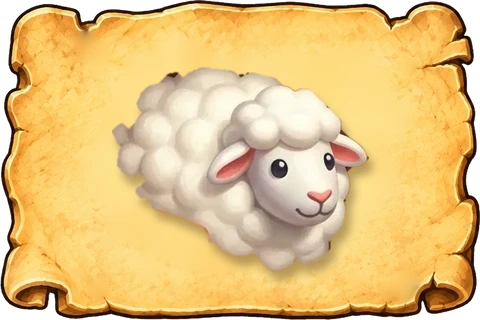
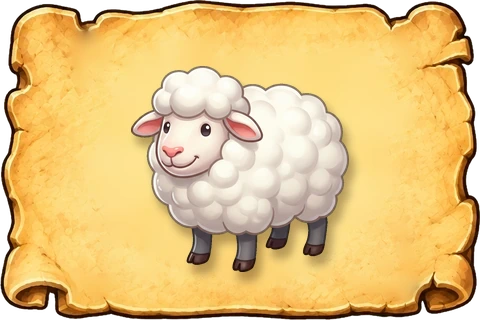
Thay ảnh tài nguyên (gạch, cừu, lúa, đá) bằng ảnh Gemini mới; token điểm huy chương vàng có số ở giữa ngôi sao
Claude-Session: https://claude.ai/code/session_01C6iMuiryePgrs9m7ahj8VB

Changed region(s): [[0.2188, 0.1875, 0.7812, 0.9062]]

diff --git a/games/dao-khai-hoang/art.js b/games/dao-khai-hoang/art.js
@@ -95,19 +95,19 @@ const KHART=(()=>{
     [[ax,ay],[bx,by]].forEach(([x,y])=>{ const L=Math.hypot(px-x,py-y), ux=(px-x)/L, uy=(py-y)/L; const nx=-uy*3.2, ny=ux*3.2;
       o+=`<polygon points="${f(x+nx)},${f(y+ny)} ${f(px+nx*.6)},${f(py+ny*.6)} ${f(px-nx*.6)},${f(py-ny*.6)} ${f(x-nx)},${f(y-ny)}" fill="#d9b27a" stroke="#8a5a2c" stroke-width="1.4"/>`;
       for(let k=1;k<6;k++){ const q=k/6; o+=`<line x1="${f(x+(px-x)*q+nx)}" y1="${f(y+(py-y)*q+ny)}" x2="${f(x+(px-x)*q-nx)}" y2="${f(y+(py-y)*q-ny)}" stroke="#8a5a2c" stroke-width="1"/>`; } });
-    o+=`<g transform="translate(${f(px)},${f(py)}) scale(1.25)"><path d="M-25 10 q6 -4 12 0 t12 0 t12 0 t12 0 t12 0" stroke="#fff" stroke-width="2.4" fill="none" opacity=".9"/><path d="M-20 14 q5 -3 10 0 t10 0 t10 0 t10 0" stroke="#bff3fb" stroke-width="1.6" fill="none" opacity=".8"/><g class="boat"><image href="assets/boat.webp?v=20261128zu" x="-20" y="-36.8" width="40" height="47.7" preserveAspectRatio="none"/></g></g>`;
+    o+=`<g transform="translate(${f(px)},${f(py)}) scale(1.25)"><path d="M-25 10 q6 -4 12 0 t12 0 t12 0 t12 0 t12 0" stroke="#fff" stroke-width="2.4" fill="none" opacity=".9"/><path d="M-20 14 q5 -3 10 0 t10 0 t10 0 t10 0" stroke="#bff3fb" stroke-width="1.6" fill="none" opacity=".8"/><g class="boat"><image href="assets/boat.webp?v=20261128zv" x="-20" y="-36.8" width="40" height="47.7" preserveAspectRatio="none"/></g></g>`;
     const bx2=px+Math.cos(ang)*42, by2=py+Math.sin(ang)*42;
     o+=`<g transform="translate(${f(bx2)},${f(by2)})"><circle r="15.5" fill="#f7ebcd" stroke="#9a6b36" stroke-width="2.4"/><circle r="12.5" fill="none" stroke="#c9a26a" stroke-width=".9"/>${t>=0?resMini(t,0,-4,.75):''}<text y="${t>=0?9:5}" class="pt">${t<0?'3:1':'2:1'}</text></g>`;
     return o; }
   // ---------- quân cờ ----------
   function shade(c,v){ return v>0?mix(c,'#ffffff',v):mix(c,'#000000',-v); }
   const HSPR={'#e11d48':'red','#2563eb':'blue','#16a34a':'green','#f8fafc':'white'};
-  function house(x,y,c,city,z){ z=z||1.28; const n=HSPR[c]||'red', u=`assets/house-${n}.webp?v=20261128zu`;
-    if(city){ const cu=`assets/city-${n}.webp?v=20261128zu`; return `<g transform="translate(${f(x)},${f(y)}) scale(${z})"><ellipse cx="0" cy="12" rx="19" ry="5.5" fill="#6b4423" opacity=".38"/><image href="${cu}" x="-19" y="-24" width="38" height="38" preserveAspectRatio="none"/></g>`; }
+  function house(x,y,c,city,z){ z=z||1.28; const n=HSPR[c]||'red', u=`assets/house-${n}.webp?v=20261128zv`;
+    if(city){ const cu=`assets/city-${n}.webp?v=20261128zv`; return `<g transform="translate(${f(x)},${f(y)}) scale(${z})"><ellipse cx="0" cy="12" rx="19" ry="5.5" fill="#6b4423" opacity=".38"/><image href="${cu}" x="-19" y="-24" width="38" height="38" preserveAspectRatio="none"/></g>`; }
     return `<g transform="translate(${f(x)},${f(y)}) scale(${z})"><ellipse cx="0" cy="10" rx="12" ry="3.6" fill="#6b4423" opacity=".35"/><image href="${u}" x="-12" y="-15.4" width="24" height="25.4" preserveAspectRatio="none"/></g>`; }
   function road(ax,ay,bx,by,c){ const n=HSPR[c]||'red', mx=(ax+bx)/2, my=(ay+by)/2; let ang=Math.atan2(by-ay,bx-ax)*180/Math.PI; if(ang>90) ang-=180; if(ang<-90) ang+=180;
     const L=Math.hypot(bx-ax,by-ay), w=Math.min(L-18,40), h=w*170/360;
-    return `<g transform="translate(${f(mx)},${f(my)}) rotate(${f(ang)})"><rect x="${f(-w/2+3)}" y="${f(-h/2+4)}" width="${f(w-6)}" height="${f(h-4)}" rx="4" fill="#6b4423" opacity=".35"/><image href="assets/road-${n}.webp?v=20261128zu" x="${f(-w/2)}" y="${f(-h/2-1)}" width="${f(w)}" height="${f(h)}" preserveAspectRatio="none"/></g>`; }
+    return `<g transform="translate(${f(mx)},${f(my)}) rotate(${f(ang)})"><rect x="${f(-w/2+3)}" y="${f(-h/2+4)}" width="${f(w-6)}" height="${f(h-4)}" rx="4" fill="#6b4423" opacity=".35"/><image href="assets/road-${n}.webp?v=20261128zv" x="${f(-w/2)}" y="${f(-h/2-1)}" width="${f(w)}" height="${f(h)}" preserveAspectRatio="none"/></g>`; }
   function robber(x,y){ return `<g transform="translate(${f(x)},${f(y)})" class="robber"><ellipse cx="2" cy="15" rx="11" ry="4" fill="#000" opacity=".45"/><path d="M-9,14 Q-11,6 -5,0 Q-8,-4 -6,-8 A7,7 0 1 1 6,-8 Q8,-4 5,0 Q11,6 9,14Z" fill="url(#khRob)" stroke="#000" stroke-width="1.2"/><ellipse cx="-3" cy="-10" rx="2.6" ry="3.6" fill="#fff" opacity=".35"/><ellipse cx="-5" cy="6" rx="2" ry="5" fill="#fff" opacity=".18"/><rect x="-9" y="12" width="18" height="3" rx="1.5" fill="#111"/></g>`; }
   function token(x,y,n){ const hot=n===6||n===8, k=KH.PIPS[n]||0;
     return `<g class="tok"><ellipse cx="${f(x+2)}" cy="${f(y+5)}" rx="17" ry="7" fill="#000" opacity=".35"/><circle cx="${f(x)}" cy="${f(y+2.5)}" r="16.5" fill="#8a6636"/><circle cx="${f(x)}" cy="${f(y)}" r="16" fill="url(#khToken)" stroke="#8a6636" stroke-width="2.2"/><circle cx="${f(x)}" cy="${f(y)}" r="13" fill="none" stroke="#fff" stroke-opacity=".7" stroke-width=".9"/>
@@ -115,9 +115,9 @@ const KHART=(()=>{
   // ---------- toàn bàn cờ tĩnh ----------
   function board(S,box){ const H=KH.HEX, V=KH.V, E=KH.E; const {minX,minY,w,h}=box;
     let s=`<defs>${defs()}${H.map((hx,i)=>`<clipPath id="khc${i}"><polygon points="${hexPts(hx.x*R,hx.y*R,R)}"/></clipPath>`).join('')}<clipPath id="khIsl"><polygon points="${island()}"/></clipPath></defs>`;
-    s+=`<rect x="${minX-500}" y="${minY-200}" width="${w+1000}" height="${h+400}" fill="#22b9e6"/><image href="assets/sea.webp?v=20261128zu" x="${minX-500}" y="${minY-200}" width="${w+1000}" height="${h+400}" preserveAspectRatio="xMidYMid slice"/>`;
+    s+=`<rect x="${minX-500}" y="${minY-200}" width="${w+1000}" height="${h+400}" fill="#22b9e6"/><image href="assets/sea.webp?v=20261128zv" x="${minX-500}" y="${minY-200}" width="${w+1000}" height="${h+400}" preserveAspectRatio="xMidYMid slice"/>`;
     { const Ri=4.3*R, kh=Ri/496.5, kv=.866*Ri/407.5, W=1254*kh, Hh=1254*kv; // đảo nền: lót cát + vành bãi cát vẽ sẵn
-      s+=`<polygon points="${island(4.35/4.85)}" fill="#e9bf7c"/><image href="assets/island-ring.webp?v=20261128zu" x="${f(-626.5*kh)}" y="${f(-615.5*kv)}" width="${f(W)}" height="${f(Hh)}" preserveAspectRatio="none"/>`; }
+      s+=`<polygon points="${island(4.35/4.85)}" fill="#e9bf7c"/><image href="assets/island-ring.webp?v=20261128zv" x="${f(-626.5*kh)}" y="${f(-615.5*kv)}" width="${f(W)}" height="${f(Hh)}" preserveAspectRatio="none"/>`; }
     s+=`<polygon points="${island(4.35/4.85)}" fill="#e9bf7c" opacity="0" clip-path="url(#khIsl)"/>`;
     const leaf=(x,y,r,c)=>`<circle cx="${f(x)}" cy="${f(y)}" r="${f(r)}" fill="${c}" stroke="#1f4a14" stroke-width="2.2"/><circle cx="${f(x-r*.3)}" cy="${f(y-r*.3)}" r="${f(r*.45)}" fill="#b6e66a" opacity=".55"/>`;
     const fol=(x,y,sg)=>`<g>`+`<path d="M${f(x)} ${f(y+70)} q${f(sg*-30)} ${f(-40)} ${f(sg*-90)} ${f(-70)}" stroke="#5a3a1c" stroke-width="12" fill="none" stroke-linecap="round"/><path d="M${f(x)} ${f(y+70)} q${f(sg*-30)} ${f(-40)} ${f(sg*-90)} ${f(-70)}" stroke="#8a5a2c" stroke-width="5" fill="none" stroke-linecap="round" opacity=".7"/>`+[[-20,28,26,'#4fa83a'],[-58,6,24,'#5fba44'],[-30,-6,22,'#3f9632'],[-78,34,20,'#4fa83a'],[4,-4,20,'#5fba44'],[-46,50,18,'#3f9632']].map(([dx,dy,r,c])=>leaf(x+sg*dx,y+dy,r,c)).join('')+`</g>`;
@@ -126,7 +126,7 @@ const KHART=(()=>{
     // ô đất (đế 3D + hình)
     H.forEach((hx,i)=>{ const cx=hx.x*R, cy=hx.y*R; s+=`<polygon points="${hexPts(cx,cy+6,R-1)}" fill="#d2b27a"/>${window.KH_LITE?'':`<polygon points="${hexPts(cx+2,cy+9,R)}" fill="#7a5a2a" opacity=".18" filter="url(#khSoft)"/>`}`; });
     H.forEach((hx,i)=>{ const cx=hx.x*R, cy=hx.y*R, hd=S.hex[i];
-      const HI=(window.KH_IMGS||{}).hex||[]; s+=`<g clip-path="url(#khc${i})">${HI.includes(hd.res)?`${hd.res<=5?`<image href="assets/hex-${hd.res}.webp?v=20261128zu" x="${f(cx-R*.9)}" y="${f(cy-R*1.04)}" width="${f(R*1.8)}" height="${f(R*2.08)}" preserveAspectRatio="none"/>`:`<image href="assets/hex-${hd.res}.webp?v=20261128zu" x="${f(cx-R*1.1)}" y="${f(cy-R*1.1)}" width="${f(R*2.2)}" height="${f(R*2.2)}" preserveAspectRatio="xMidYMid slice"/>`}`:terrain(hd.res,cx,cy,i)}${window.KH_LITE?'':`<rect x="${f(cx-R)}" y="${f(cy-R)}" width="${2*R}" height="${2*R}" filter="url(#khNoise)" opacity=".07"/>`}</g>`;
+      const HI=(window.KH_IMGS||{}).hex||[]; s+=`<g clip-path="url(#khc${i})">${HI.includes(hd.res)?`${hd.res<=5?`<image href="assets/hex-${hd.res}.webp?v=20261128zv" x="${f(cx-R*.9)}" y="${f(cy-R*1.04)}" width="${f(R*1.8)}" height="${f(R*2.08)}" preserveAspectRatio="none"/>`:`<image href="assets/hex-${hd.res}.webp?v=20261128zv" x="${f(cx-R*1.1)}" y="${f(cy-R*1.1)}" width="${f(R*2.2)}" height="${f(R*2.2)}" preserveAspectRatio="xMidYMid slice"/>`}`:terrain(hd.res,cx,cy,i)}${window.KH_LITE?'':`<rect x="${f(cx-R)}" y="${f(cy-R)}" width="${2*R}" height="${2*R}" filter="url(#khNoise)" opacity=".07"/>`}</g>`;
       s+=`<polygon points="${hexPts(cx,cy,R-1)}" fill="none" stroke="#d9bb82" stroke-width="3.4" stroke-linejoin="round"/><polygon points="${hexPts(cx,cy,R-4.5)}" fill="none" stroke="#b58b52" stroke-opacity=".45" stroke-width="1.3"/><polygon points="${hexPts(cx,cy,R)}" fill="none" stroke="#f3e2bb" stroke-width="1.6"/>`;
       });
     H.forEach((hx,i)=>{ const hd=S.hex[i]; if(hd.num) s+=token(hx.x*R,hx.y*R+8,hd.num); });
@@ -142,7 +142,7 @@ const KHART=(()=>{
   function resCard(r){ if(ccache['r'+r]) return ccache['r'+r]; const id='khrc'+r, nm=RN[r].toUpperCase();
     const s=`<svg viewBox="0 0 100 76" class="rcard"><defs>
       <linearGradient id="${id}w" x1="0" y1="0" x2="0" y2="1"><stop offset="0" stop-color="#c98a52"/><stop offset=".45" stop-color="#a8642f"/><stop offset="1" stop-color="#7d4520"/></linearGradient></defs>
-      <image href="assets/res-${r}.webp?v=20261128zu" x="1" y="10" width="98" height="65" preserveAspectRatio="none"/>
+      <image href="assets/res-${r}.webp?v=20261128zv" x="1" y="10" width="98" height="65" preserveAspectRatio="none"/>
       <g class="plank" transform="scale(1,.88)"><path d="M13 3.5 L16 1.5 H84 L87 3.5 L89 5.5 V17.5 L87 19.5 L84 21.5 H16 L13 19.5 L11 17.5 V5.5Z" fill="#1b0f06" transform="translate(0,1.2)" opacity=".55"/>
       <path d="M13 3 L16 1 H84 L87 3 L89 5 V17 L87 19 L84 21 H16 L13 19 L11 17 V5Z" fill="url(#${id}w)" stroke="#1b0f06" stroke-width="1.6" stroke-linejoin="round"/>
       <path d="M15 5 H55 M60 4.6 H84 M16 11 H40 M47 10.6 H70 M74 11 H86 M15 17.6 H48 M56 17.4 H84" stroke="#6b3a17" stroke-width=".7" stroke-linecap="round" fill="none" opacity=".7"/>
@@ -201,7 +201,7 @@ const KHART=(()=>{
     <text x="35" y="59" class="rn" style="font-size:22px;fill:#ffe9a8;stroke:#2e1809;stroke-width:3px;paint-order:stroke">?</text></svg>`; }
   function medal(k){ const road=k==='road', id='khmd'+k; return `<svg viewBox="0 0 64 64" class="mdl"><defs><linearGradient id="${id}g" x1="0" y1="0" x2="1" y2="1"><stop offset="0" stop-color="#fff0b0"/><stop offset=".5" stop-color="#e0a62c"/><stop offset="1" stop-color="#8a5a10"/></linearGradient><clipPath id="${id}c"><circle cx="32" cy="32" r="23"/></clipPath></defs>
     <circle cx="32" cy="33" r="30" fill="#000" opacity=".3"/><circle cx="32" cy="32" r="30" fill="url(#${id}g)" stroke="#4a2b08" stroke-width="2"/><circle cx="32" cy="32" r="24.5" fill="${road?'#c79a5a':'#6f86a8'}" stroke="#4a2b08" stroke-width="1.6"/>
-    ${road?`<g clip-path="url(#${id}c)"><rect x="8" y="8" width="48" height="48" fill="#8cc152"/><image href="assets/road-neutral.webp?v=20261128zu" x="9" y="22" width="46" height="21.7" preserveAspectRatio="none"/></g>`:`<g clip-path="url(#${id}c)"><image href="assets/dev-knight.webp?v=20261128zu" x="6" y="7" width="52" height="55.5" preserveAspectRatio="xMidYMid slice"/></g>`}
+    ${road?`<g clip-path="url(#${id}c)"><rect x="8" y="8" width="48" height="48" fill="#8cc152"/><image href="assets/road-neutral.webp?v=20261128zv" x="9" y="22" width="46" height="21.7" preserveAspectRatio="none"/></g>`:`<g clip-path="url(#${id}c)"><image href="assets/dev-knight.webp?v=20261128zv" x="6" y="7" width="52" height="55.5" preserveAspectRatio="xMidYMid slice"/></g>`}
     <circle cx="32" cy="32" r="24.5" fill="none" stroke="#4a2b08" stroke-width="1.6"/><g transform="translate(47,48)"><circle r="11.5" fill="#d92d2d" stroke="#4a0f0f" stroke-width="2"/><text y="5" class="rn" style="font-size:14px;fill:#fff;stroke:#4a0f0f;stroke-width:3px;paint-order:stroke">+2</text></g></svg>`; }
   return {R,board,house,road,robber,die,resCard,devCard,devBack,medal,resMini,hexPts,shade,RC};
 })();

diff --git a/games/dao-khai-hoang/ui.js b/games/dao-khai-hoang/ui.js
@@ -2,7 +2,7 @@
 const KHUI=(()=>{
   const PC=['#e11d48','#2563eb','#16a34a','#f8fafc'];
   const A=KHART, R=A.R;
-  let lastArgs=null, root=null, prevAw={}, pop=null, mode=null, robH=null, lastEv=null, tg=0, tw=3, og=0, oq=1, ow=3, on=1, ot=-1, dsel=null, DP=[], boardSig='';
+  let lastVp={}, lastArgs=null, root=null, prevAw={}, pop=null, mode=null, robH=null, lastEv=null, tg=0, tw=3, og=0, oq=1, ow=3, on=1, ot=-1, dsel=null, DP=[], boardSig='';
   const $=s=>document.querySelector(s);
   const VB={minX:-372,minY:-348,w:744,h:696};
   const X=v=>v*R;
@@ -77,13 +77,13 @@ const KHUI=(()=>{
     if (robH!=null){ const vs=KH.victims(S,robH,ME); h+=`<div class="box">Lấy 1 lá của: ${vs.map(v=>`<button class="tbtn" data-vic="${v}">${api.esc(S.seats[v].name)}</button>`).join(' ')}</div>`; }
     let L=h, HV=''; h='';
     h+=`<div class="pls">${S.seats.map((p,i)=>{ const Q=S.P[i]; const left=S.turn===i&&S.phase!=='over'?Math.max(0,90-Math.floor((t-S.turnAt)/1000)):null;
-      return `<div class="pl ${S.turn===i?'turn':''} ${S.winner===i?'win':''}" data-p="${i}" style="--pc:${PC[i]}"><div class="ph"><svg viewBox="-12 -16 24 28" class="pk">${A.house(0,0,PC[i],false,1)}</svg><b>${api.esc(p.name)}</b>${i===ME?' (bạn)':''}<span class="meds">${S.longest===i?`<span class="medal lr" title="Đường dài nhất +2 điểm">${A.medal('road')}</span>`:''}${S.largest===i?`<span class="medal la" title="Quân mạnh nhất +2 điểm">${A.medal('army')}</span>`:''}</span>${left!=null?` <span class="tmr">${left}</span>`:''}<span class="vp">${KH.vp(S,i,i===ME||S.phase==='over')}<small>điểm</small></span></div>
-        <div class="pcn"><span title="Nhà"><img src="assets/house-neutral.webp?v=20261128zu">${5-Q.towns}</span><span title="Thành phố"><img src="assets/city-neutral.webp?v=20261128zu">${4-Q.cities}</span><span title="Đường"><img src="assets/road-neutral.webp?v=20261128zu" class="rd">${15-Q.roads}</span></div>
+      return `<div class="pl ${S.turn===i?'turn':''} ${S.winner===i?'win':''}" data-p="${i}" style="--pc:${PC[i]}"><div class="ph"><svg viewBox="-12 -16 24 28" class="pk">${A.house(0,0,PC[i],false,1)}</svg><b>${api.esc(p.name)}</b>${i===ME?' (bạn)':''}<span class="meds">${S.longest===i?`<span class="medal lr" title="Đường dài nhất +2 điểm">${A.medal('road')}</span>`:''}${S.largest===i?`<span class="medal la" title="Quân mạnh nhất +2 điểm">${A.medal('army')}</span>`:''}</span>${left!=null?` <span class="tmr">${left}</span>`:''}${(()=>{const v=KH.vp(S,i,i===ME||S.phase==='over');const up=lastVp[i]!==undefined&&v>lastVp[i];lastVp[i]=v;return `<span class="vp${up?' up':''}" title="Điểm chiến thắng"><span class="vtk${String(v).length>1?' two':''}"><img src="assets/vp-coin.webp?v=20261128zv" alt=""><b>${v}</b></span></span>`;})()}</div>
+        <div class="pcn"><span title="Nhà"><img src="assets/house-neutral.webp?v=20261128zv">${5-Q.towns}</span><span title="Thành phố"><img src="assets/city-neutral.webp?v=20261128zv">${4-Q.cities}</span><span title="Đường"><img src="assets/road-neutral.webp?v=20261128zv" class="rd">${15-Q.roads}</span></div>
         ${i!==ME&&ME>=0?`<button class="tbtn sm pto" data-a="offerto" data-p="${i}" ${main&&P&&P.res[og]>=oq&&og!==ow?'':'disabled'} title="Gửi: đưa ${oq} ${KH_RES[og]}, lấy ${on} ${KH_RES[ow]}">Yêu cầu đổi</button>`:''}
         <div class="ps"><span title="Tài nguyên"><i>Tài nguyên: </i><u>🎴</u><b class="rn2">${KH.tot(Q.res)}</b></span><span title="Thẻ phát triển"><i>Thẻ PT: </i><u>📜</u>${Q.dev.length+Q.newDev.length}</span><span title="Hiệp sĩ đã dùng"><i>Hiệp sĩ: </i><u>⚔</u>${Q.knights}</span></div>
         </div>`; }).join('')}</div>`;
     const S1=h; h='';
-    { const V='?v=20261128zu';
+    { const V='?v=20261128zv';
       const cc=c=>c.map((x,r)=>x?`<span class="cr">${[...Array(x)].map(()=>`<svg viewBox="-9 -8 18 16" width="21" height="19">${A.resMini(r,0,0,.8)}</svg>`).join('')}</span>`:'').join('');
       const row=(ic,t,pt,c,att,dis,on)=>`<button class="ctr cbtn ${on?'on':''}" ${att} ${dis?'disabled':''}><span class="cic">${ic}</span><span class="ctx"><b>${t}</b><small>${pt}</small></span><span class="cco">${cc(c)}</span></button>`;
       const okR=main&&P&&(KH.canPay(P,KH_COST.road)||S.free)&&P.roads>0, okT=main&&P&&KH.canPay(P,KH_COST.town)&&P.towns>0, okC=main&&P&&KH.canPay(P,KH_COST.city)&&P.cities>0, okD=main&&P&&KH.canPay(P,KH_COST.dev)&&S.dev.length>0;
@@ -111,7 +111,7 @@ const KHUI=(()=>{
         const popH=pop==='bank'?`<div class="box pop"><div class="cth">Đổi với cảng · ngân hàng</div><div class="plb">Đưa (số lá cần có)</div><div class="rrow">${gb}</div><div class="plb">Lấy</div><div class="rrow">${wb}</div><button class="tbtn pri wide" data-a="trade" ${okT?'':'disabled'}>Đổi ${rt[tg]} ${KH_RES[tg]} lấy 1 ${KH_RES[tw]}</button></div>`
           :pop==='offer'?`<div class="box pop ptr"><div class="cth">Yêu cầu đổi với người chơi</div><div class="prow"><span>Đưa</span><select data-s="oq">${qty(oq)}</select><select data-s="og">${opt(0,og,ow)}</select></div><div class="prow"><span>Lấy</span><select data-s="on">${qty(on)}</select><select data-s="ow">${opt(0,ow,og)}</select></div>
           <div class="prow"><span>Cho</span><select data-s="ot"><option value="-1" ${ot<0?'selected':''}>Tất cả</option>${others.map(i=>`<option value="${i}" ${ot===i?'selected':''}>${api.esc(S.seats[i].name)}</option>`).join('')}</select></div>${main?(P.res[og]>=oq?'':'<div class="chint">Bạn chưa đủ lá để đưa</div>'):'<div class="chint">Chỉ gửi được trong lượt của bạn, sau khi đổ xúc xắc</div>'}<button class="tbtn pri wide" data-a="offer" ${okO?'':'disabled'}>Gửi yêu cầu đổi</button></div>`:'';
-        HV+=`<div class="tbar">${popH}<button class="bt ${anyB?'ring':''} ${pop==='bank'?'on':''}" data-a="pop" data-k="bank" title="Đổi với cảng / ngân hàng"><img src="assets/boat.webp?v=20261128zu" alt=""><small>Đổi cảng</small></button><button class="bt bm ${pop==='offer'?'on':''}" data-a="pop" data-k="offer" title="Chợ: yêu cầu đổi với người chơi"><svg viewBox="0 0 50 50" width="46" height="46" class="mk"><rect x="9" y="19" width="3" height="22" rx="1" fill="#8a5a2c" stroke="#3a210c" stroke-width="1"/><rect x="38" y="19" width="3" height="22" rx="1" fill="#8a5a2c" stroke="#3a210c" stroke-width="1"/><g stroke="#3a210c" stroke-width="1.1" stroke-linejoin="round"><polygon points="10,9 16,9 13.6,20 6.0,20" fill="#e11d48"/><polygon points="16,9 22,9 21.2,20 13.6,20" fill="#fff4d6"/><polygon points="22,9 28,9 28.8,20 21.2,20" fill="#e11d48"/><polygon points="28,9 34,9 36.4,20 28.8,20" fill="#fff4d6"/><polygon points="34,9 40,9 44.0,20 36.4,20" fill="#e11d48"/><circle cx="9.8" cy="20" r="3.8" fill="#e11d48"/><circle cx="17.4" cy="20" r="3.8" fill="#fff4d6"/><circle cx="25.0" cy="20" r="3.8" fill="#e11d48"/><circle cx="32.6" cy="20" r="3.8" fill="#fff4d6"/><circle cx="40.2" cy="20" r="3.8" fill="#e11d48"/></g><rect x="7" y="33" width="36" height="9" rx="2" fill="#b8763a" stroke="#3a210c" stroke-width="1.2"/><rect x="7" y="33" width="36" height="3" rx="1.5" fill="#d99a58"/><circle cx="17" cy="31" r="3.6" fill="#ef4444" stroke="#3a210c" stroke-width="1"/><circle cx="25" cy="30.5" r="3.6" fill="#facc15" stroke="#3a210c" stroke-width="1"/><circle cx="33" cy="31" r="3.6" fill="#4ade80" stroke="#3a210c" stroke-width="1"/></svg><small>Chợ</small></button></div>`; }
+        HV+=`<div class="tbar">${popH}<button class="bt ${anyB?'ring':''} ${pop==='bank'?'on':''}" data-a="pop" data-k="bank" title="Đổi với cảng / ngân hàng"><img src="assets/boat.webp?v=20261128zv" alt=""><small>Đổi cảng</small></button><button class="bt bm ${pop==='offer'?'on':''}" data-a="pop" data-k="offer" title="Chợ: yêu cầu đổi với người chơi"><svg viewBox="0 0 50 50" width="46" height="46" class="mk"><rect x="9" y="19" width="3" height="22" rx="1" fill="#8a5a2c" stroke="#3a210c" stroke-width="1"/><rect x="38" y="19" width="3" height="22" rx="1" fill="#8a5a2c" stroke="#3a210c" stroke-width="1"/><g stroke="#3a210c" stroke-width="1.1" stroke-linejoin="round"><polygon points="10,9 16,9 13.6,20 6.0,20" fill="#e11d48"/><polygon points="16,9 22,9 21.2,20 13.6,20" fill="#fff4d6"/><polygon points="22,9 28,9 28.8,20 21.2,20" fill="#e11d48"/><polygon points="28,9 34,9 36.4,20 28.8,20" fill="#fff4d6"/><polygon points="34,9 40,9 44.0,20 36.4,20" fill="#e11d48"/><circle cx="9.8" cy="20" r="3.8" fill="#e11d48"/><circle cx="17.4" cy="20" r="3.8" fill="#fff4d6"/><circle cx="25.0" cy="20" r="3.8" fill="#e11d48"/><circle cx="32.6" cy="20" r="3.8" fill="#fff4d6"/><circle cx="40.2" cy="20" r="3.8" fill="#e11d48"/></g><rect x="7" y="33" width="36" height="9" rx="2" fill="#b8763a" stroke="#3a210c" stroke-width="1.2"/><rect x="7" y="33" width="36" height="3" rx="1.5" fill="#d99a58"/><circle cx="17" cy="31" r="3.6" fill="#ef4444" stroke="#3a210c" stroke-width="1"/><circle cx="25" cy="30.5" r="3.6" fill="#facc15" stroke="#3a210c" stroke-width="1"/><circle cx="33" cy="31" r="3.6" fill="#4ade80" stroke="#3a210c" stroke-width="1"/></svg><small>Chợ</small></button></div>`; }
       { const mx=Math.max(0,...S.P.map(q=>q.lr)), mk=Math.max(0,...S.P.map(q=>q.knights)); const hd=i=>i>=0?`<span class="hold" style="--pc:${PC[i]}">${api.esc(S.seats[i].name)}</span>`:'<span class="hold none">Chưa ai</span>';
         const slot=(k,cls,own)=>own<0?`<span class="medal ${cls}">${A.medal(k)}</span>`:`<span class="slot"></span>`;
         L+=`<div class="box awp"><div class="cth">Giải thưởng +2 điểm</div>

diff --git a/games/dao-khai-hoang/index.html b/games/dao-khai-hoang/index.html
@@ -13,8 +13,8 @@
 <script src="../../core/effects.js"></script>
 <script src="../../core/table.js"></script>
 <script src="../../core/cards.js"></script>
-<script src="game.js?v=20261128zu"></script>
-<script src="assets/imgs.js?v=20261128zu"></script>
+<script src="game.js?v=20261128zv"></script>
+<script src="assets/imgs.js?v=20261128zv"></script>
 <script>
 window.KH_FX=(function(){const d=document.documentElement;
  function mode(){let m=null;try{m=localStorage.getItem('kh-fx');}catch(e){} if(m==='full'||m==='lite') return m;
@@ -24,8 +24,8 @@ window.KH_FX=(function(){const d=document.documentElement;
  function toggle(){const n=mode()==='lite'?'full':'lite';try{localStorage.setItem('kh-fx',n);}catch(e){} return apply();}
  apply(); return {mode,apply,toggle};})();
 </script>
-<script src="art.js?v=20261128zu"></script>
-<script src="ui.js?v=20261128zu"></script>
+<script src="art.js?v=20261128zv"></script>
+<script src="ui.js?v=20261128zv"></script>
 <script>
 const CSS=`#kh{padding:8px 10px 14px;min-height:calc(100vh - 60px);background:radial-gradient(ellipse at 40% 30%,#6b4524 0%,#4a2d15 55%,#2c1a0b 100%);color:#f6ead0}
 #kh::before{content:"";position:fixed;inset:0;pointer-events:none;opacity:.18;background:repeating-linear-gradient(92deg,transparent 0 22px,rgba(0,0,0,.25) 22px 24px,transparent 24px 60px),repeating-linear-gradient(88deg,rgba(255,220,170,.06) 0 3px,transparent 3px 9px)}
@@ -75,7 +75,7 @@ border:3px solid #2e1809;box-shadow:inset 0 0 0 2px #cf9f5f,inset 0 0 0 4px #4d2
 .die{width:86px;height:86px;filter:drop-shadow(0 6px 5px rgba(0,0,0,.55))}.dice b{width:100%;text-align:center;font-size:40px;line-height:1;color:#ffd76a;text-shadow:0 2px 0 #3a210c,0 0 14px rgba(255,200,80,.7)}.dice>span{width:100%;text-align:center;color:#ead9b4;font-size:15px;padding:12px 0 4px}.dice .tbtn{width:100%;margin:4px 0 0;padding:11px 8px;font-size:19px}
 .dice.rolling .die{animation:roll .8s cubic-bezier(.3,1.4,.5,1)}.dice.rolling .die:nth-child(2){animation-delay:.08s}@keyframes roll{0%{transform:translate(-60px,-30px) rotate(-540deg) scale(.5)}60%{transform:translate(6px,4px) rotate(20deg) scale(1.1)}}
 .pls{display:flex;flex-direction:column;gap:6px}.pl{border-left:7px solid var(--pc);transition:box-shadow .3s}.pl.turn{box-shadow:0 0 0 2px var(--pc),0 0 20px color-mix(in srgb,var(--pc) 60%,transparent)}.pl.win{background:rgba(74,222,128,.18)}
-.pl .ph{display:flex;align-items:center;gap:6px;font-size:15px}.pl .pk{width:22px;height:26px}.pl .vp{margin-left:auto;font-size:24px;font-weight:bold;color:#ffd76a;display:flex;align-items:baseline;gap:3px}.pl .vp small{font-size:11px;color:#cdbb96;font-weight:normal}
+.pl .ph{display:flex;align-items:center;gap:6px;font-size:15px}.pl .pk{width:22px;height:26px}.pl .vp{margin-left:auto;font-size:24px;font-weight:bold;color:#ffd76a;display:flex;align-items:baseline;gap:3px}.pl .vp small{font-size:11px;color:#cdbb96;font-weight:normal}.pl .vp{margin-left:auto;display:flex;align-items:center}.vtk{position:relative;display:inline-block;width:42px;height:42px;filter:drop-shadow(0 2px 2px rgba(0,0,0,.55))}.vtk img{width:100%;height:100%;display:block}.vtk b{position:absolute;left:0;right:0;top:50%;transform:translateY(-47%);text-align:center;font:800 21px/1 KhFont,'Baloo 2','Arial Black',sans-serif;color:#fff;-webkit-text-stroke:3px #5a3200;paint-order:stroke fill;letter-spacing:-.5px}.vtk.two b{font-size:17px}.pl .vp.up .vtk{animation:vpup .7s cubic-bezier(.2,1.6,.4,1)}.pl .vp.up .vtk b{animation:vpnum .7s ease-out}@keyframes vpup{0%{transform:scale(1)}35%{transform:scale(1.5) rotate(-8deg);filter:drop-shadow(0 0 10px #ffe36b)}100%{transform:scale(1)}}@keyframes vpnum{0%{color:#ffe36b}100%{color:#fff}}
 .pl .ps{display:flex;gap:10px;font-size:12.5px;color:#e2d3b2;flex-wrap:wrap}.pl .aw{margin-top:3px;display:flex;gap:5px}.pl em{font-style:normal;font-size:11.5px;background:linear-gradient(135deg,#fde68a,#f59e0b);border-radius:6px;padding:0 6px;color:#5a3500;font-weight:bold}
 .tmr{background:#f59e0b;color:#fff;border-radius:10px;padding:0 6px;font-weight:bold;font-size:12px}
 .hand{display:flex;gap:4px;justify-content:space-between;padding:10px 8px 8px}
@@ -92,7 +92,7 @@ border:3px solid #2e1809;box-shadow:inset 0 0 0 2px #cf9f5f,inset 0 0 0 4px #4d2
 #kh,#kh *{font-family:"KhFont","Baloo 2","Arial Black",sans-serif}#kh button,#kh select,#kh input{font-family:inherit}
 #kh .cth,#kh .dice::before,#kh .chs .hd::before,#kh .ctx b,#kh .pl .ph b,#kh .kst,#kh .tbtn{letter-spacing:.3px}
 #kh .cth,#kh .dice::before,#kh .chs .hd::before,#kh .ctx b,#kh .pl .ph b{color:#fff;-webkit-text-stroke:3px #3a210c;paint-order:stroke fill;text-shadow:0 2px 0 rgba(30,12,0,.6)}
-#kh .dice b,#kh .pl .vp{-webkit-text-stroke:3px #3a210c;paint-order:stroke fill}
+#kh .dice b{-webkit-text-stroke:3px #3a210c;paint-order:stroke fill}
 .side .chs .tb-chat .cm{background:#f6e6c3;color:#3a210c;text-shadow:none;border:2px solid #4a2b10;border-radius:11px;-webkit-text-stroke:0}.side .chs .tb-chat .cm.me{background:#ffd76a}.side .chs .tb-chat .cm b{color:#8a1d2c;margin-right:5px}.side .chs .tb-chat .mute{color:#ead9b4}
 .cbtn{font:inherit;color:inherit;text-align:left;width:100%;background:none;border:none;border-bottom:1px solid rgba(40,18,4,.45);cursor:pointer;border-radius:10px;text-shadow:inherit}.ctr.cbtn:last-of-type{border-bottom:none}.cbtn:hover:not(:disabled){background:rgba(255,220,150,.2)}.cbtn.on{background:rgba(253,224,71,.3);box-shadow:inset 0 0 0 2px #fde047}.cbtn:disabled{opacity:.55;cursor:default}
 .chint{text-align:center;font-size:12px;color:#ffe9b0;margin-top:5px}
@@ -199,7 +199,7 @@ border:3px solid #2e1809;box-shadow:inset 0 0 0 2px #cf9f5f,inset 0 0 0 4px #4d2
  .ctr{grid-template-columns:28px 1fr!important;grid-template-rows:auto auto;gap:0 4px!important;padding:1px 0!important}.cic{grid-row:span 2}.ctx small{display:none}.ctx b{font-size:11px;line-height:1.1}.cco{gap:2px}.cco .cr{padding:0 2px;border-radius:5px}.cco .cr svg{width:13px;height:17px}
  .dice{display:flex!important;flex-wrap:wrap;flex-direction:row!important;align-items:center;justify-content:center;gap:3px 5px!important}.dice b{width:auto!important;font-size:22px!important}.dice .tbtn{width:100%}
  .pl{display:grid!important;grid-template-columns:auto 1fr;grid-template-rows:auto auto;column-gap:4px;row-gap:1px;padding:3px 6px!important}
- .pl .ph{grid-column:1/-1;font-size:13px;display:flex;align-items:center;gap:4px;line-height:1.1}.pl .ph>svg{width:17px;height:17px}.pl .vp{margin-left:auto;font-size:16px;white-space:nowrap}.pl .vp small{font-size:9px}
+ .pl .ph{grid-column:1/-1;font-size:13px;display:flex;align-items:center;gap:4px;line-height:1.1}.pl .ph>svg{width:17px;height:17px}.pl .vp{margin-left:auto;font-size:16px;white-space:nowrap}.pl .vp small{font-size:9px}.vtk{width:30px;height:30px}.vtk b{font-size:15px;-webkit-text-stroke:2.4px #5a3200}.vtk.two b{font-size:12px}
  .pl .ph .tmr{font-size:10px}.pl .ph .meds{margin:0}
  .pcn{margin:0!important;font-size:12px;gap:3px!important;grid-column:1;grid-row:2}.pcn span{padding:0 4px 0 1px}.pcn img{width:16px!important;height:16px!important}
  .pl .ps{grid-column:2;grid-row:2;font-size:11px;gap:4px;line-height:1.1;display:flex;align-items:center;justify-content:flex-end;flex-wrap:nowrap;white-space:nowrap}.pl .ps i{display:none}.pl .ps u{display:inline}.pl .ps b{font-size:11px}
@@ -247,7 +247,7 @@ border:3px solid #2e1809;box-shadow:inset 0 0 0 2px #cf9f5f,inset 0 0 0 4px #4d2
  .ctr{grid-template-columns:34px 1fr!important;gap:0 5px!important;padding:3px 0!important}.ctx small{font-size:10px}.ctx b{font-size:13px}.cco .cr svg{width:15px;height:19px}.cth{font-size:13px!important}
  .box,.pl{padding:5px 8px}
  .pl{display:grid!important;grid-template-columns:auto 1fr;grid-template-rows:auto auto;column-gap:6px;row-gap:2px}
- .pl .ph{grid-column:1/-1;font-size:14px;display:flex;align-items:center;gap:5px;line-height:1.1}.pl .ph>svg{width:19px;height:19px}.pl .vp{margin-left:auto;font-size:18px;white-space:nowrap}.pl .vp small{font-size:10px}
+ .pl .ph{grid-column:1/-1;font-size:14px;display:flex;align-items:center;gap:5px;line-height:1.1}.pl .ph>svg{width:19px;height:19px}.pl .vp{margin-left:auto;font-size:18px;white-space:nowrap}.pl .vp small{font-size:10px}.vtk{width:34px;height:34px}.vtk b{font-size:17px;-webkit-text-stroke:2.6px #5a3200}.vtk.two b{font-size:14px}
  .pcn{margin:0!important;font-size:13px;gap:4px!important;grid-column:1;grid-row:2}.pcn span{padding:0 5px 0 2px}.pcn img{width:17px!important;height:17px!important}
  .pl .ps{grid-column:2;grid-row:2;font-size:12px;gap:6px;display:flex;align-items:center;justify-content:flex-end;white-space:nowrap}.pl .ps i{display:none}.pl .ps u{display:inline}
  .pl .pto{top:3px!important;bottom:auto!important;right:62px!important;font-size:11px;padding:1px 8px}
